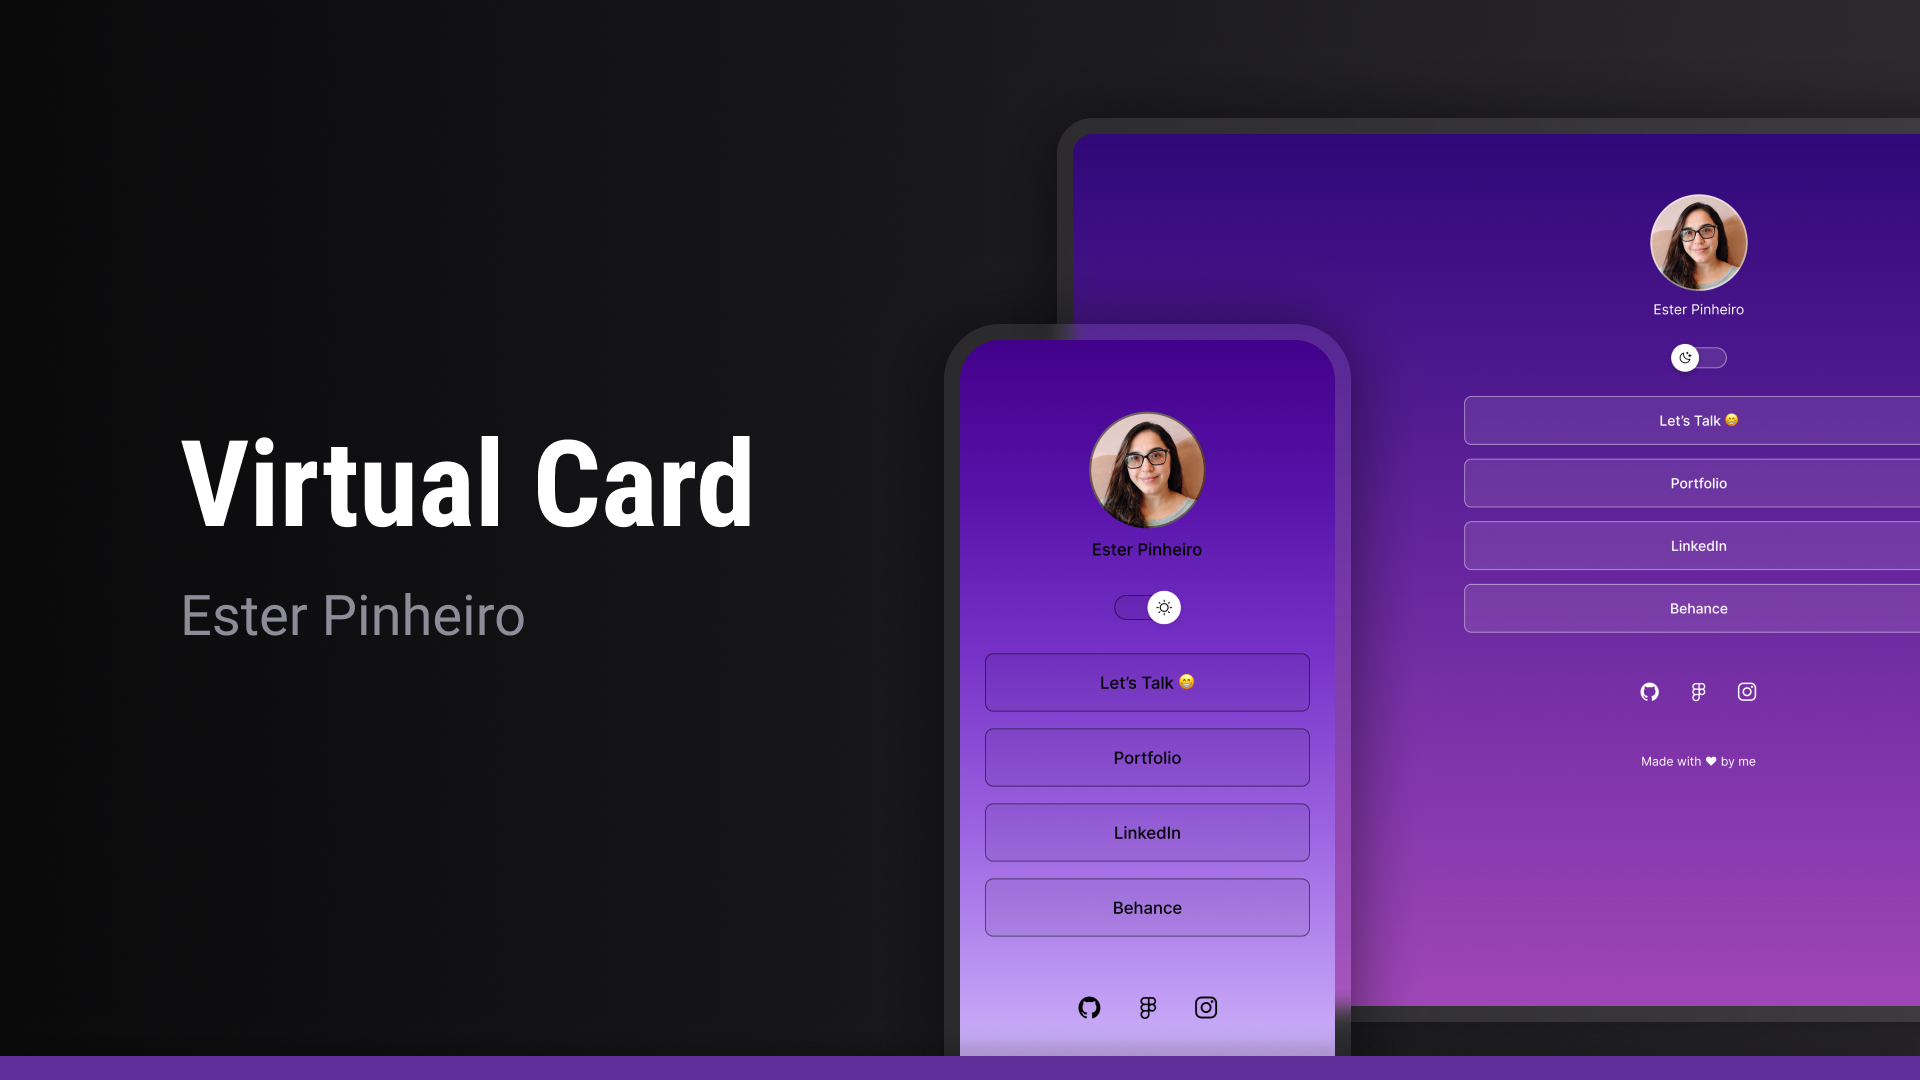
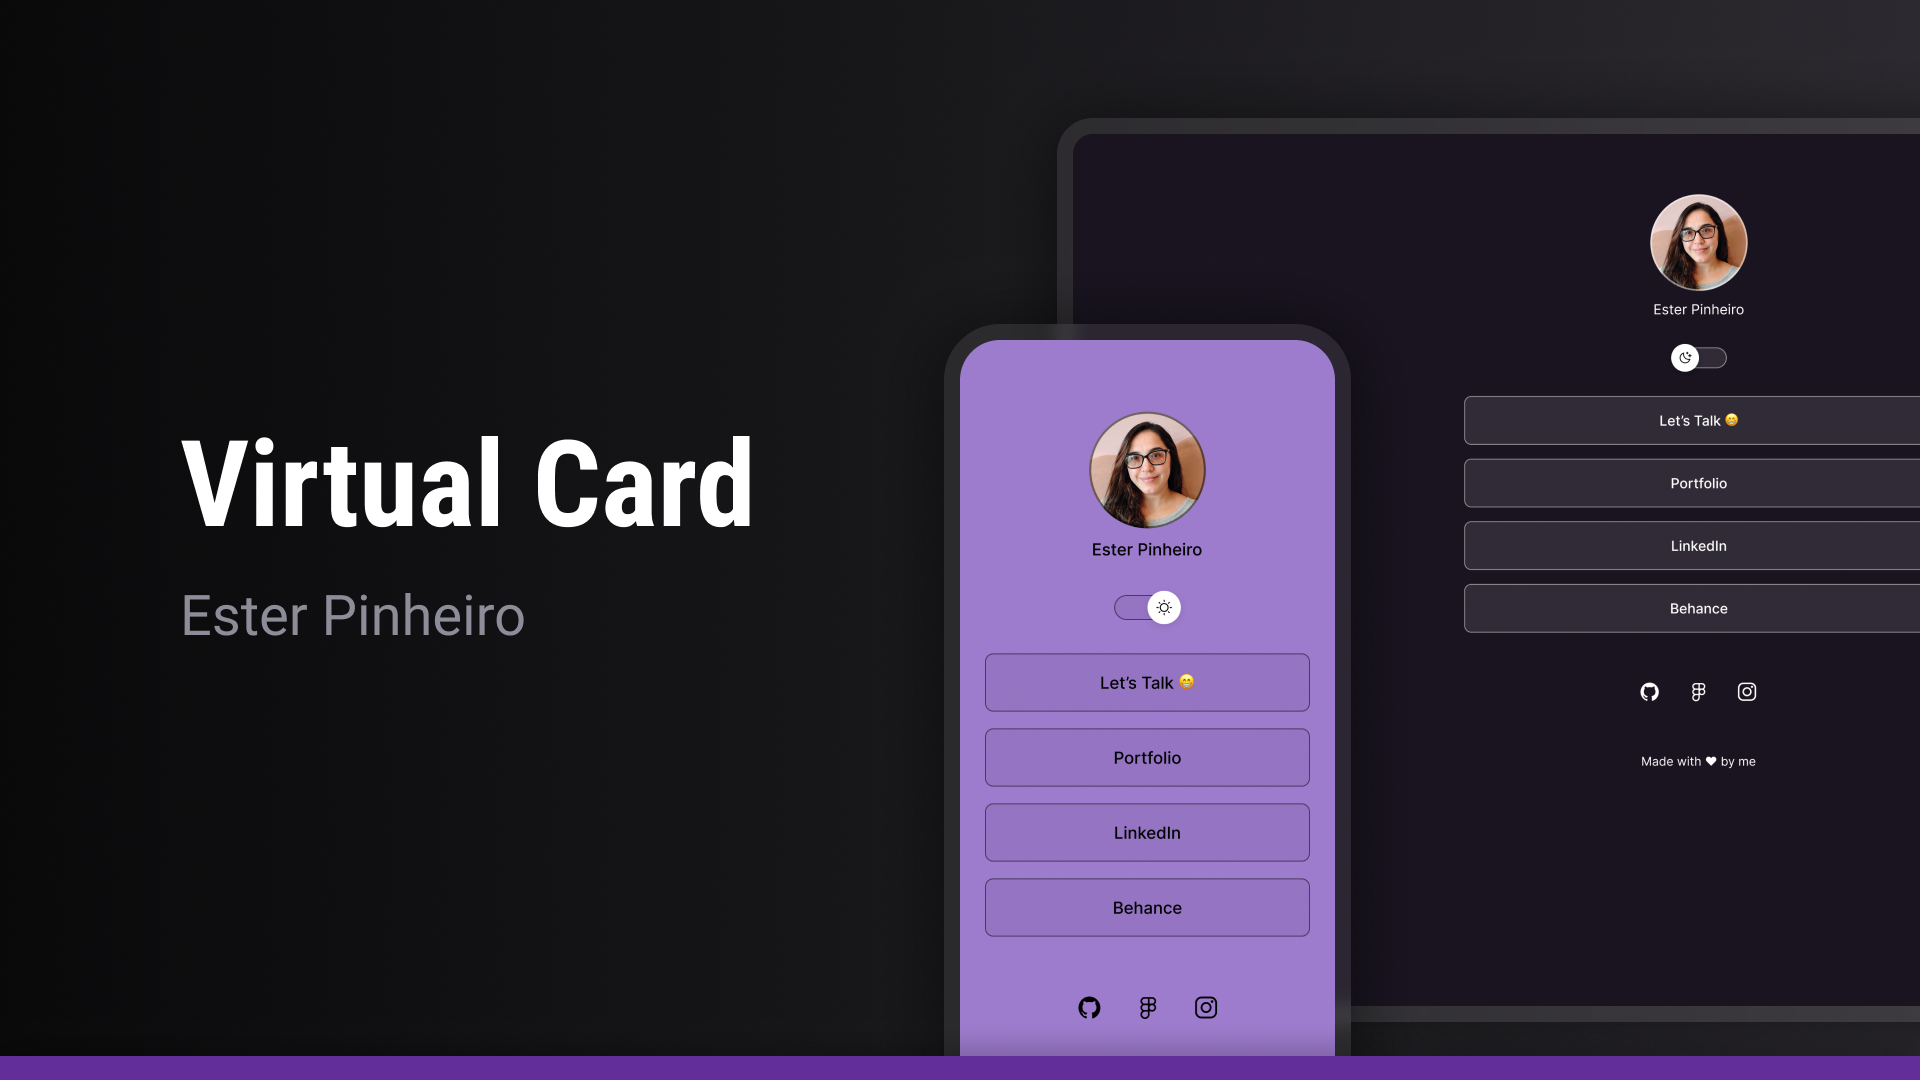
feat: implement background animation and update styles for improved visuals

diff --git a/script.js b/script.js
@@ -2,3 +2,149 @@ function toggleMode() {
   const html = document.documentElement
   html.classList.toggle("light")
 }
+
+window.requestAnimationFrame =
+  window.requestAnimationFrame ||
+  window.mozRequestAnimationFrame ||
+  window.webkitRequestAnimationFrame ||
+  window.msRequestAnimationFrame
+
+onload = function () {
+  setTimeout(init, 0)
+}
+
+init = function () {
+  canvas = document.getElementById("bg-animation")
+  ctx = canvas.getContext("2d")
+
+  onresize = function () {
+    canvas.width = window.innerWidth
+    canvas.height = window.innerHeight
+  }
+  onresize()
+
+  mouse = { x: canvas.width / 2, y: canvas.height / 2, out: false }
+
+  // INTERAÇÃO COM MOUSE (Desktop)
+  window.onmousemove = function (e) {
+    mouse = { x: e.clientX, y: e.clientY, out: false }
+  }
+  window.onmouseout = function () {
+    mouse.out = true
+  }
+
+  // INTERAÇÃO COM TOUCH (Mobile)
+  window.addEventListener(
+    "touchstart",
+    function (e) {
+      mouse.out = false
+
+      mouse.x = e.touches[0].clientX
+      mouse.y = e.touches[0].clientY
+    },
+    { passive: false },
+  )
+
+  window.addEventListener(
+    "touchmove",
+    function (e) {
+      mouse.out = false
+      mouse.x = e.touches[0].clientX
+      mouse.y = e.touches[0].clientY
+    },
+    { passive: false },
+  )
+
+  window.addEventListener("touchend", function () {
+    mouse.out = true
+  })
+
+  gravityStrength = 10
+  particles = []
+  spawnTimer = 0
+  spawnInterval = 10
+  type = 0
+  requestAnimationFrame(startLoop)
+}
+
+newParticle = function () {
+  const isLight = document.documentElement.classList.contains("light")
+  type = type ? 0 : 1
+
+  let color
+  if (isLight) {
+    color = type
+      ? `rgba(255, 255, 255, ${Math.random() * 0.4})`
+      : "rgba(80, 50, 110, 0.25)"
+  } else {
+    color = type
+      ? Math.random() > 0.5
+        ? "rgba(255, 255, 255, 0.3)"
+        : "rgba(168, 85, 247, 0.4)"
+      : "rgba(37, 99, 235, 0.3)"
+  }
+
+  particles.push({
+    x: mouse.x,
+    y: mouse.y,
+    xv: type ? 4 * Math.random() - 2 : 6 * Math.random() - 3,
+    yv: type ? 4 * Math.random() - 2 : 6 * Math.random() - 3,
+    c: color,
+    s: type ? 5 + 10 * Math.random() : 1,
+    a: 1,
+  })
+}
+startLoop = function (newTime) {
+  time = newTime
+  requestAnimationFrame(loop)
+}
+
+loop = function (newTime) {
+  draw()
+  calculate(newTime)
+  requestAnimationFrame(loop)
+}
+
+draw = function () {
+  ctx.clearRect(0, 0, canvas.width, canvas.height)
+  for (var i = 0; i < particles.length; i++) {
+    var p = particles[i]
+    ctx.globalAlpha = p.a
+    ctx.fillStyle = p.c
+    ctx.beginPath()
+    ctx.arc(p.x, p.y, p.s, 0, 2 * Math.PI)
+    ctx.fill()
+  }
+}
+
+calculate = function (newTime) {
+  var dt = newTime - time
+  time = newTime
+
+  if (!mouse.out) {
+    spawnTimer += dt < 100 ? dt : 100
+    for (; spawnTimer > 0; spawnTimer -= spawnInterval) {
+      newParticle()
+    }
+  }
+
+  particleOverflow = particles.length - 700
+  if (particleOverflow > 0) {
+    particles.splice(0, particleOverflow)
+  }
+
+  for (var i = 0; i < particles.length; i++) {
+    var p = particles[i]
+    if (!mouse.out) {
+      x = mouse.x - p.x
+      y = mouse.y - p.y
+      a = x * x + y * y
+      a = a > 100 ? gravityStrength / a : gravityStrength / 100
+      p.xv = (p.xv + a * x) * 0.99
+      p.yv = (p.yv + a * y) * 0.99
+    }
+    p.x += p.xv
+    p.y += p.yv
+    p.a *= 0.99
+  }
+}

diff --git a/style.css b/style.css
@@ -5,7 +5,7 @@
 }
 :root {
   --text-color: white;
-  --bg-url: url(./assets/bg-mobile.jpg);
+  --bg-color: #191420;
   --stroke-color: rgba(255, 255, 255, 0.5);
   --surface-color: rgba(255, 255, 255, 0.1);
   --surface-color-hover: rgba(255, 255, 255, 0.05);
@@ -14,7 +14,7 @@
 }
 .light {
   --text-color: black;
-  --bg-url: url(./assets/bg-mobile-light.jpg);
+  --bg-color: #9d7bcd;
   --stroke-color: rgba(0, 0, 0, 0.5);
   --surface-color: rgba(0, 0, 0, 0.05);
   --surface-color-hover: rgba(0, 0, 0, 0.02);
@@ -22,16 +22,27 @@
   --switch-bg-url: url(./assets/sun.svg);
 }
 body {
-  background-image: var(--bg-url);
-  background-repeat: no-repeat;
-  background-position: top center;
-  background-size: cover;
-  height: 100%;
+  background-color: var(--bg-color);
+  background-image: none;
+  min-height: 100%;
+  transition: background-color 0.4s ease;
 }
 body * {
   font-family: "Inter", sans-serif;
   color: var(--text-color);
 }
+#bg-animation {
+  position: fixed;
+  top: 0;
+  left: 0;
+  width: 100%;
+  height: 100%;
+  z-index: -1;
+  pointer-events: none;
+
+  background-color: var(--bg-color);
+}
+
 #container {
   width: 100%;
   max-width: 588px;

diff --git a/index.html b/index.html
@@ -14,6 +14,7 @@
     <link rel="stylesheet" href="style.css" />
   </head>
   <body>
+    <canvas id="bg-animation"></canvas>
     <div id="container">
       <div id="profile">
         <img
